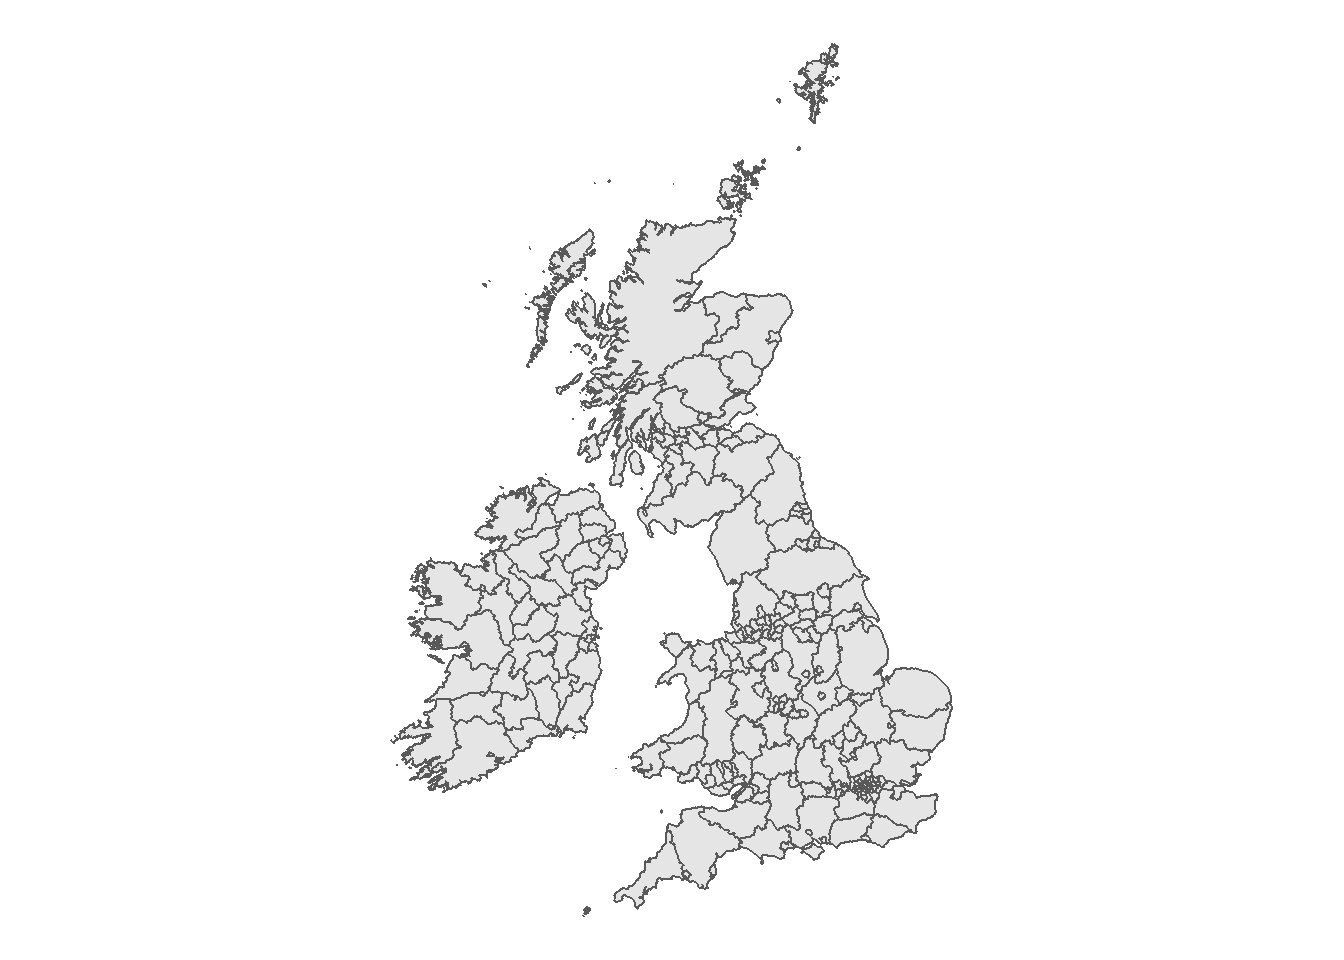
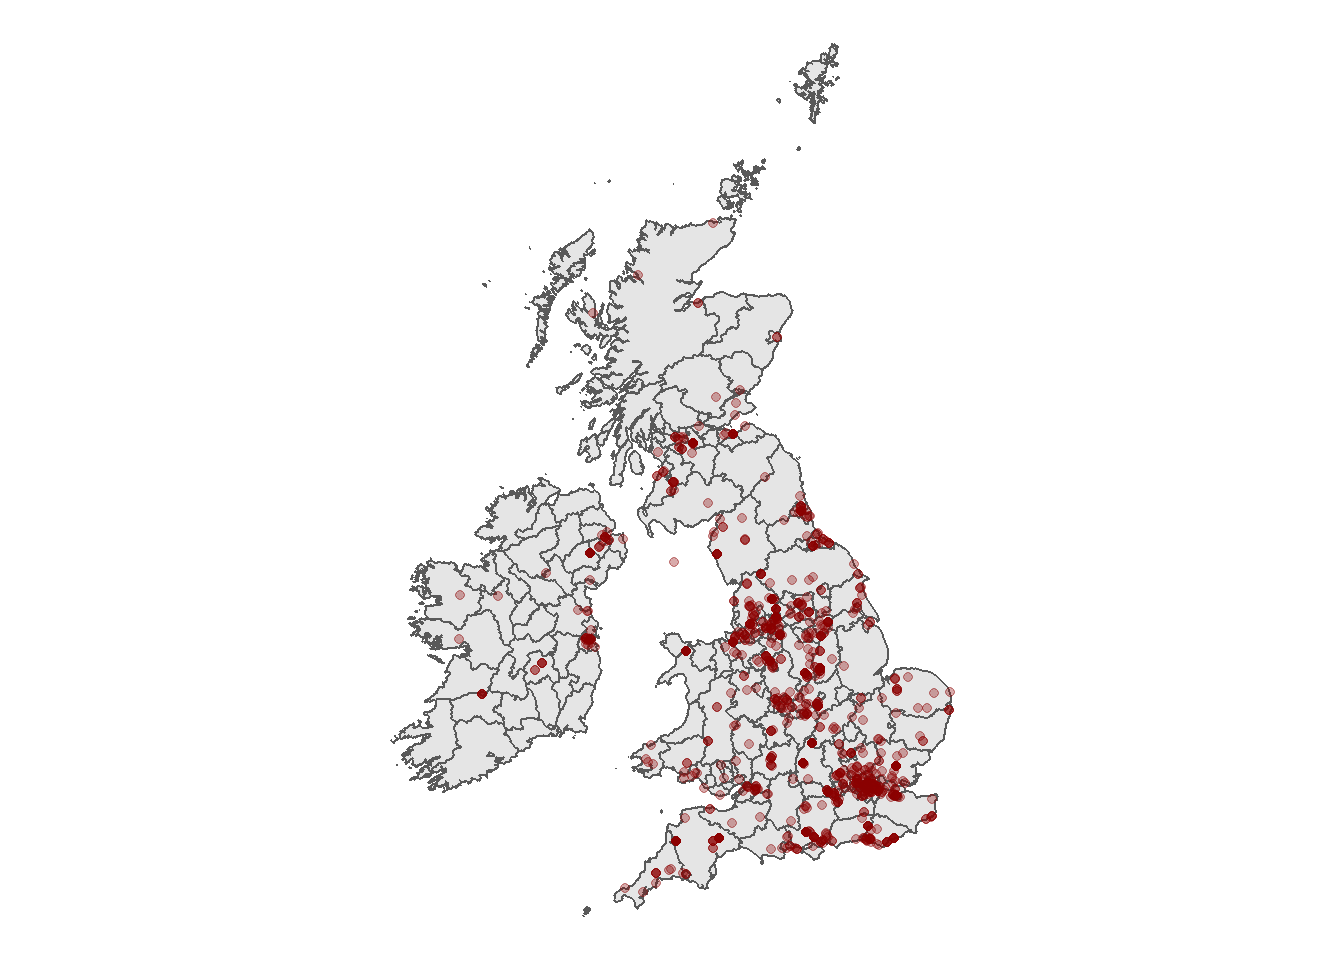
Updated Parler post

diff --git a/posts/2021-01-17-mapping-parler-uk-ire/index.html b/posts/2021-01-17-mapping-parler-uk-ire/index.html
@@ -95,7 +95,7 @@
 <p>Following this, each post was linked to the relevant County boundary and the map was color coded by their proportional contribution to the total number of posts.</p>
 <p><img src="images/unnamed-chunk-6-1.png" style="width:80.0%;height:80.0%" /></p>
 <p>This map does have a disadvantage in that very small geographical regions are not very visible. In particular, we can’t see the county of Westminster which is the county with the greatest number of posts.</p>
-<p>The plot area can be narrowed to a specific region - London:</p>
+<p>The plot area can be narrowed to a specific region - plot below shows the subset of the area around London:</p>
 <p><img src="images/unnamed-chunk-7-1.png" style="width:80.0%;height:80.0%" /></p>
 <div id="r-code" class="section level2">
 <h2>R Code</h2>
@@ -107,26 +107,9 @@
 <li>Link the Parler posts to the county of origin and plot posts by county</li>
 </ul>
 <pre class="r"><code># Importing the libraries used to manipulate and visualise the data
-library(tidyverse)</code></pre>
-<pre><code>## -- Attaching packages --------------------------------------- tidyverse 1.3.0 --</code></pre>
-<pre><code>## v ggplot2 3.3.3     v purrr   0.3.4
-## v tibble  3.0.4     v dplyr   1.0.2
-## v tidyr   1.1.2     v stringr 1.4.0
-## v readr   1.4.0     v forcats 0.5.0</code></pre>
-<pre><code>## -- Conflicts ------------------------------------------ tidyverse_conflicts() --
-## x dplyr::filter() masks stats::filter()
-## x dplyr::lag()    masks stats::lag()</code></pre>
-<pre class="r"><code>library(maps)</code></pre>
-<pre><code>## 
-## Attaching package: &#39;maps&#39;</code></pre>
-<pre><code>## The following object is masked from &#39;package:purrr&#39;:
-## 
-##     map</code></pre>
-<pre class="r"><code>library(sf)</code></pre>
-<pre><code>## Linking to GEOS 3.8.0, GDAL 3.0.4, PROJ 6.3.1</code></pre>
-<pre class="r"><code># Defining the Projections
-tm65 &lt;- &quot;+proj=tmerc +lat_0=53.5 +lon_0=-8 +k=1.000035 +x_0=200000 +y_0=250000 +a=6377340.189 +b=6356034.447938534 +units=m +no_defs&quot;
-OSGB &lt;- &quot;+proj=tmerc +lat_0=49 +lon_0=-2 +k=0.9996012717 +x_0=400000 +y_0=-100000 +ellps=airy +datum=OSGB36 +units=m +no_defs&quot;</code></pre>
+library(tidyverse)
+library(maps)
+library(sf)</code></pre>
 <div id="importing-the-republic-of-ireland-shapefile" class="section level3">
 <h3>Importing the Republic of Ireland Shapefile</h3>
 <p>The shapefile for the Republic of Ireland was sourced from the 2011 Census dataset.</p>
@@ -137,6 +120,9 @@ shp_ire &lt;- st_read(file.path(path, &quot;Census2011_Admin_Counties_generalise
 
 # Removing unneeded columns
 shp_ire &lt;- shp_ire %&gt;% select(ID = NUTS3, County = COUNTYNAME)
+
+# Defining the TM65 projection
+tm65 &lt;- &quot;+proj=tmerc +lat_0=53.5 +lon_0=-8 +k=1.000035 +x_0=200000 +y_0=250000 +a=6377340.189 +b=6356034.447938534 +units=m +no_defs&quot;
 
 # Setting the CRS (Coordinate Reference System) mapping to the file
 st_crs(shp_ire) &lt;- tm65
@@ -149,7 +135,7 @@ shp_ire %&gt;%
   ggplot() +
   geom_sf() +
   theme_void()</code></pre>
-<p><img src="../../posts/2021-01-17-mapping-parler-uk-ire/index_files/figure-html/unnamed-chunk-2-1.png" width="672" /></p>
+<p><img src="../../posts/2021-01-17-mapping-parler-uk-ire/index_files/figure-html/unnamed-chunk-1-1.png" width="672" /></p>
 <p>As we can see, the shapefile excludes Northern Ireland - this can be sourced from the Great Britain shapefile.</p>
 </div>
 <div id="importing-the-great-britain-shapefile" class="section level3">
@@ -160,6 +146,9 @@ shp_ire %&gt;%
 
 # Removing unneeded columns
 shp_gb &lt;- shp_gb %&gt;% select(ID = ctyua19cd, County = ctyua19nm)
+
+# Defining the OSGB projection
+OSGB &lt;- &quot;+proj=tmerc +lat_0=49 +lon_0=-2 +k=0.9996012717 +x_0=400000 +y_0=-100000 +ellps=airy +datum=OSGB36 +units=m +no_defs&quot;
 
 # Setting the CRS mapping to the file
 st_crs(shp_gb) &lt;- OSGB
@@ -187,7 +176,7 @@ baseplot &lt;- shp %&gt;%
               theme_void()
 
 baseplot</code></pre>
-<p><img src="../../posts/2021-01-17-mapping-parler-uk-ire/index_files/figure-html/unnamed-chunk-3-1.png" width="672" /></p>
+<p><img src="../../posts/2021-01-17-mapping-parler-uk-ire/index_files/figure-html/unnamed-chunk-2-1.png" width="672" /></p>
 </div>
 <div id="plotting-the-parler-data" class="section level3">
 <h3>Plotting the Parler Data</h3>
@@ -204,7 +193,7 @@ data_sf &lt;- st_as_sf(data, coords=c(&quot;LongitudeDD&quot;,&quot;LatitudeDD&q
 
 baseplot + 
   geom_sf(data = data_sf, alpha = .33, color=&#39;darkred&#39;)</code></pre>
-<p><img src="../../posts/2021-01-17-mapping-parler-uk-ire/index_files/figure-html/unnamed-chunk-4-1.png" width="672" />
+<p><img src="../../posts/2021-01-17-mapping-parler-uk-ire/index_files/figure-html/unnamed-chunk-3-1.png" width="672" />
 In addition to plotting the points, we can use the <code>st_intersects</code> function to match each GPR coordinate to the County it was posted from.</p>
 <pre class="r"><code>intersection &lt;- st_intersects(data_sf, shp)
 
@@ -225,7 +214,7 @@ map &lt;- merge %&gt;%
           #+ theme(plot.background= element_rect(fill = &quot;#EBF5FB&quot;, colour = &quot;#EBF5FB&quot;))
 
 map</code></pre>
-<p><img src="../../posts/2021-01-17-mapping-parler-uk-ire/index_files/figure-html/unnamed-chunk-6-1.png" width="672" /></p>
+<p><img src="../../posts/2021-01-17-mapping-parler-uk-ire/index_files/figure-html/unnamed-chunk-5-1.png" width="672" /></p>
 <p>We can also plot the data for the London region:</p>
 <pre class="r"><code>#map + coord_sf(ylim=c(51.4, 51.6), xlim=c(-0.25, +0.25)) + 
 #  geom_sf_label(aes(label=County), color=&#39;black&#39;, size=3)
@@ -237,14 +226,17 @@ labels &lt;- c(&#39;Westminster&#39;, &#39;Camden&#39;, &#39;Islington&#39;, &#3
 map + coord_sf(ylim=c(51.4, 51.6), xlim=c(-0.25, +0.1)) + 
   geom_sf_label(data=filter(merge, County %in% labels),
                 aes(label=County), color=&#39;black&#39;, size=3)</code></pre>
-<p><img src="../../posts/2021-01-17-mapping-parler-uk-ire/index_files/figure-html/unnamed-chunk-7-1.png" width="672" /></p>
+<p><img src="../../posts/2021-01-17-mapping-parler-uk-ire/index_files/figure-html/unnamed-chunk-6-1.png" width="672" /></p>
 </div>
 </div>
 <div id="references" class="section level2">
 <h2>References:</h2>
-<p><a href="https://www.nceas.ucsb.edu/sites/default/files/2020-04/OverviewCoordinateReferenceSystems.pdf">Coordinate Reference Systems in R</a></p>
-<p><a href="https://epsg.io/4299">TM65 Projection</a></p>
-<p><a href="https://www.r-spatial.org/r/2018/10/25/ggplot2-sf-2.html">Drawing Maps in R</a></p>
+<ul>
+<li><a href="https://www.nceas.ucsb.edu/sites/default/files/2020-04/OverviewCoordinateReferenceSystems.pdf">Coordinate Reference Systems in R</a></li>
+<li><a href="https://epsg.io/4299">TM65 Projection</a></li>
+<li><a href="https://epsg.io/27700">OSGB Projection</a></li>
+<li><a href="https://www.r-spatial.org/r/2018/10/25/ggplot2-sf-2.html">Drawing Maps in R</a></li>
+</ul>
 </div>
 
     </div>
